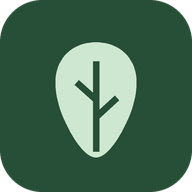
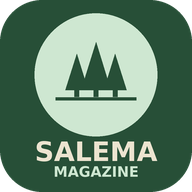
Ícone novo e aviso para guardar o Magazine no telemóvel
Claude-Session: https://claude.ai/code/session_0157YoFM2haLzSpK7oLoS7BS

Changed region(s): [[0.1562, 0.0625, 0.8438, 0.9375]]

diff --git a/app.js b/app.js
@@ -487,3 +487,72 @@ addEventListener("hashchange",()=>{ route(); scrollTo(0,0); });
 renderSections(); renderTopics(); renderAds(); route(); loadDados();
 setInterval(loadDados, 5*60*1000);
 })();
+
+/* ---------- guardar no telemóvel ---------- */
+(function(){
+  const $=s=>document.querySelector(s);
+  const ua=navigator.userAgent||"";
+  const isIOS=/iPhone|iPad|iPod/.test(ua) || (navigator.platform==="MacIntel" && navigator.maxTouchPoints>1);
+  const isAndroid=/Android/.test(ua);
+  const isMobile=isIOS||isAndroid;
+  const standalone=window.matchMedia("(display-mode: standalone)").matches || navigator.standalone===true;
+  let deferred=null;
+  const get=k=>{ try{ return localStorage.getItem(k); }catch{ return null; } };
+  const set=(k,v)=>{ try{ localStorage.setItem(k,v); }catch{} };
+
+  if(standalone){ const c=$("#install-card"); if(c) c.hidden=true; return; }
+
+  addEventListener("beforeinstallprompt",e=>{ e.preventDefault(); deferred=e; });
+  addEventListener("appinstalled",()=>{ $("#install-bar").hidden=true; set("instalado","1"); });
+
+  const ico=(path)=>'<span class="kbd"><svg viewBox="0 0 24 24">'+path+'</svg></span>';
+  const SHARE=ico('<path d="M12 3v12M8 7l4-4 4 4"/><path d="M5 12v7a2 2 0 0 0 2 2h10a2 2 0 0 0 2-2v-7"/>');
+  const DOTS=ico('<circle cx="12" cy="5" r="1"/><circle cx="12" cy="12" r="1"/><circle cx="12" cy="19" r="1"/>');
+  const PLUS=ico('<rect x="4" y="4" width="16" height="16" rx="3"/><path d="M12 8v8M8 12h8"/>');
+
+  function showHelp(){
+    const f=$("#req-form"); f.replaceChildren(); f.onsubmit=null;
+    const h=document.createElement("h2"); h.textContent="Guardar o Magazine no telemóvel"; f.append(h);
+    const p=document.createElement("p"); p.className="lead"; p.textContent="Fica com um ícone no ecrã principal e abre como uma aplicação, em ecrã inteiro."; f.append(p);
+    const ol=document.createElement("ol"); ol.className="steps-install";
+    let steps;
+    if(isIOS) steps=[
+      "Abra esta página no <b>Safari</b> (no iPhone, só o Safari permite guardar).",
+      "Toque no botão <b>Partilhar</b> "+SHARE+", em baixo no ecrã.",
+      "Deslize e escolha <b>Adicionar ao ecrã principal</b> "+PLUS+".",
+      "Toque em <b>Adicionar</b>. O ícone Salema Magazine aparece no ecrã."];
+    else if(isAndroid) steps=[
+      "No <b>Chrome</b>, toque no menu "+DOTS+", no canto de cima.",
+      "Escolha <b>Instalar aplicação</b> ou <b>Adicionar ao ecrã principal</b>.",
+      "Confirme. O ícone Salema Magazine aparece no ecrã."];
+    else steps=[
+      "No telemóvel, leia o QR code da receção ou abra <b>ecomagazine.pt</b>.",
+      "<b>iPhone:</b> no Safari, toque em Partilhar "+SHARE+" e depois em Adicionar ao ecrã principal.",
+      "<b>Android:</b> no Chrome, toque no menu "+DOTS+" e depois em Instalar aplicação.",
+      "No computador, guarde a página nos favoritos."];
+    steps.forEach(t=>{ const li=document.createElement("li"); li.innerHTML=t; ol.append(li); });
+    f.append(ol);
+    const a=document.createElement("div"); a.className="actions";
+    const close=document.createElement("button"); close.type="button"; close.className="btn"; close.textContent="Percebi";
+    close.onclick=()=>{ $("#sheet").hidden=true; f.replaceChildren(); };
+    a.append(close); f.append(a);
+    $("#sheet").hidden=false;
+  }
+  async function install(){
+    if(deferred){ deferred.prompt(); const r=await deferred.userChoice; deferred=null; if(r&&r.outcome==="accepted"){ $("#install-bar").hidden=true; set("instalado","1"); } return; }
+    showHelp();
+  }
+  document.querySelectorAll("[data-install]").forEach(b=>b.addEventListener("click",install));
+  $("#install-close").addEventListener("click",()=>{ $("#install-bar").hidden=true; set("installAdiado",String(Date.now())); });
+
+  const adiado=parseInt(get("installAdiado")||"0",10);
+  const semana=7*24*3600*1000;
+  if(isMobile && !get("instalado") && Date.now()-adiado>semana){
+    setTimeout(()=>{ if($("#sheet").hidden) $("#install-bar").hidden=false; }, 4000);
+  }
+})();
+
+/* guarda as páginas para abrirem mesmo com pouca rede */
+if("serviceWorker" in navigator && location.protocol==="https:"){
+  addEventListener("load",()=>navigator.serviceWorker.register("sw.js").catch(()=>{}));
+}

diff --git a/index.html b/index.html
@@ -7,8 +7,12 @@
 <meta name="theme-color" content="#274F37">
 <title>Salema Eco Camp Magazine</title>
 <link rel="manifest" href="manifest.webmanifest">
-<link rel="icon" href="icone.svg" type="image/svg+xml">
-<link rel="apple-touch-icon" href="icone-192.png">
+<link rel="icon" href="favicon.png" type="image/png">
+<link rel="apple-touch-icon" href="icone-180.png">
+<meta name="apple-mobile-web-app-capable" content="yes">
+<meta name="mobile-web-app-capable" content="yes">
+<meta name="apple-mobile-web-app-title" content="Salema Magazine">
+<meta name="apple-mobile-web-app-status-bar-style" content="default">
 <link rel="preconnect" href="https://fonts.googleapis.com">
 <link rel="stylesheet" href="https://fonts.googleapis.com/css2?family=Baloo+2:wght@400;500;600;700&display=swap">
 <link rel="stylesheet" href="estilo.css">
@@ -96,6 +100,11 @@
   <section class="block">
     <h1>O parque</h1>
   </section>
+  <div class="card" id="install-card">
+    <h2>Guardar no telemóvel</h2>
+    <p>Tenha o Magazine sempre à mão, com um ícone no ecrã como uma aplicação. Não ocupa espaço nem precisa de loja de aplicações.</p>
+    <button class="btn" type="button" data-install>Como guardar</button>
+  </div>
   <div class="card">
     <h2>Mapa do parque</h2>
     <p>As zonas do parque, numeradas. Diga o número da sua zona quando pedir ajuda ou avisar uma avaria.</p>
@@ -286,6 +295,13 @@
   <a href="#anuncios" data-tab="anuncios"><svg viewBox="0 0 24 24"><path d="M4 5h16v11H8l-4 4z"/><path d="M8 9h8M8 12h5"/></svg>Anúncios</a>
   <a href="#parque" data-tab="parque"><svg viewBox="0 0 24 24"><path d="M12 3l7 10H5z"/><path d="M12 13v8M8 21h8"/></svg>Parque</a>
 </div></nav>
+
+<div class="install-bar" id="install-bar" hidden role="dialog" aria-label="Guardar o Magazine no telemóvel">
+  <img src="icone-192.png" alt="">
+  <div><b>Guarde o Magazine no telemóvel</b><small>Fica com um ícone no ecrã, como uma aplicação.</small></div>
+  <button class="btn small" type="button" data-install>Guardar</button>
+  <button class="x" type="button" id="install-close" aria-label="Agora não">×</button>
+</div>
 
 <div class="sheet" id="sheet" hidden>
   <form id="req-form" novalidate></form>

diff --git a/estilo.css b/estilo.css
@@ -257,3 +257,15 @@ h1,h2,h3{color:var(--title);font-weight:700}
 }
 .card.insta{flex-direction:row;align-items:center}
 .contacts b{white-space:nowrap}
+
+/* aviso para guardar no telemóvel */
+.install-bar{position:fixed;left:8px;right:8px;bottom:calc(72px + env(safe-area-inset-bottom,0px));z-index:7;max-width:620px;margin:0 auto;
+  background:var(--surface);border-radius:14px;box-shadow:0 6px 24px rgba(0,0,0,.18);padding:10px 12px;display:grid;grid-template-columns:44px 1fr auto auto;gap:10px;align-items:center}
+.install-bar img{width:44px;height:44px;border-radius:10px}
+.install-bar b{display:block;color:var(--title);font-size:.95rem;line-height:1.2}
+.install-bar small{display:block;color:var(--muted);font-size:.8rem;line-height:1.25}
+.install-bar .x{background:none;border:0;font-size:1.4rem;line-height:1;color:var(--muted);cursor:pointer;padding:4px 6px}
+.steps-install{margin:0;padding-left:1.3em;display:flex;flex-direction:column;gap:10px}
+.steps-install li{line-height:1.4}
+.kbd{display:inline-flex;align-items:center;justify-content:center;vertical-align:-4px;width:24px;height:24px;border-radius:6px;background:var(--surface-2);margin:0 2px}
+.kbd svg{width:16px;height:16px;stroke:var(--accent);fill:none;stroke-width:2;stroke-linecap:round;stroke-linejoin:round}

diff --git a/sw.js b/sw.js
@@ -1,0 +1,16 @@
+/* Salema Eco Camp Magazine — funciona com pouca rede.
+   Vai sempre buscar a versão nova à internet; só usa a cópia guardada
+   quando não há ligação. Assim, as atualizações aparecem logo. */
+const CACHE="salema-magazine-v1";
+self.addEventListener("install",e=>self.skipWaiting());
+self.addEventListener("activate",e=>e.waitUntil(self.clients.claim()));
+self.addEventListener("fetch",e=>{
+  const req=e.request;
+  if(req.method!=="GET" || new URL(req.url).origin!==location.origin) return;
+  e.respondWith(
+    fetch(req).then(res=>{
+      if(res.ok){ const copy=res.clone(); caches.open(CACHE).then(c=>c.put(req,copy)); }
+      return res;
+    }).catch(()=>caches.match(req).then(r=>r||caches.match("./index.html")))
+  );
+});
